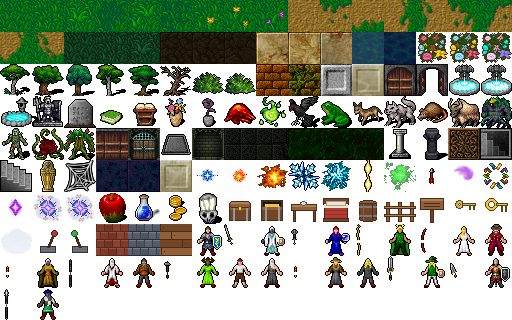
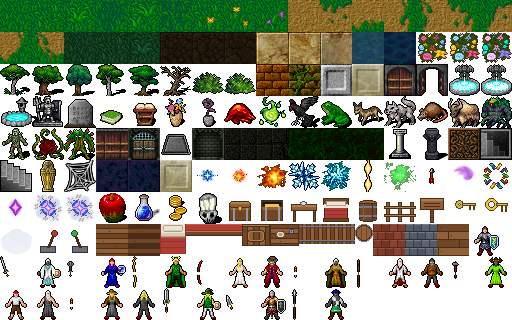
Lanterne : marche plus douce, meubles en volume ; page des crédits
- Marche : le balancement suit l'horloge (2,4 cycles par seconde)
  au lieu de repartir à chaque case (10 cycles par seconde).
- Meubles en volume : nouveau decor « meuble » du moteur (boîtes et
  cylindres texturés face par face) pour le lit, la table et le
  tonneau ; textures dessinées par outils/lanterne-tuiles.py.
- Page credits/index.html (créateurs, licences, liens vers les
  sources), lien en bas de l'accueil et sur l'écran titre de la
  Lanterne ; règle des crédits dans CLAUDE.md et le mémo.
- sw.js : ludotheque-v53.

Claude-Session: https://claude.ai/code/session_01RTxURJ1XwSQTktxKmeYS76

Changed region(s): [[0.1875, 0.6875, 1.0, 1.0], [0.0, 0.8125, 0.1562, 1.0], [0.0, 0.8125, 0.0312, 0.875]]

diff --git a/credits/index.html b/credits/index.html
@@ -1,0 +1,86 @@
+<!DOCTYPE html>
+<html lang="fr">
+<head>
+<meta charset="utf-8">
+<meta name="viewport" content="width=device-width, initial-scale=1">
+<meta name="theme-color" content="#0d0820">
+<title>Crédits — Ludothèque 16 bits</title>
+<link rel="preconnect" href="https://fonts.googleapis.com">
+<link rel="preconnect" href="https://fonts.gstatic.com" crossorigin>
+<link rel="stylesheet" href="https://fonts.googleapis.com/css2?family=Press+Start+2P&family=VT323&display=swap">
+<style>
+  /* Page des crédits : à compléter dès qu'on ajoute une ressource venue d'ailleurs (règle du 22/10, voir CLAUDE.md). */
+  :root { --fond: #0d0820; --carte: #1b1238; --bord: #ffffff; --or: #ffd23f; --texte: #ece6ff; --doux: #a99fd0; --lien: #5ce1ff; }
+  * { box-sizing: border-box; }
+  body { margin: 0; background: var(--fond); color: var(--texte); font: 21px/1.25 "VT323", monospace; }
+  main { max-width: 760px; margin: 0 auto; padding: 18px 16px 40px; }
+  h1 { font: 18px/1.5 "Press Start 2P", monospace; color: var(--or); margin: 10px 0 4px; }
+  h2 { font: 12px/1.6 "Press Start 2P", monospace; color: var(--or); margin: 26px 0 8px; }
+  p { margin: 6px 0; }
+  .intro { color: var(--doux); }
+  .res { background: var(--carte); border: 3px solid var(--bord); box-shadow: 4px 4px 0 #000; border-radius: 4px; padding: 8px 12px; margin: 10px 0; }
+  .res b { color: #fff; }
+  .res .lic { display: inline-block; font: 8px/1 "Press Start 2P", monospace; background: var(--or); color: #2a1600; padding: 4px 5px; margin-left: 6px; vertical-align: 2px; }
+  .res .jeux { color: var(--doux); }
+  a { color: var(--lien); word-break: break-word; }
+  .retour { display: inline-block; font: 10px/1 "Press Start 2P", monospace; color: #000; background: var(--or); border: 3px solid #000; padding: 10px 12px; text-decoration: none; box-shadow: 3px 3px 0 #000; }
+  ul { margin: 4px 0; padding-left: 20px; }
+</style>
+</head>
+<body>
+<main>
+  <a class="retour ludo-retour" href="../index.html">&#9664; LUDOTHEQUE</a>
+  <h1>CREDITS</h1>
+  <p class="intro">Les jeux de la Ludothèque sont faits pour la famille, sans but commercial. La plupart des graphismes et des sons sont dessinés ou synthétisés par le code. Voici tout ce qui vient d'ailleurs, avec un grand merci à leurs créateurs.</p>
+
+  <h2>GRAPHISMES</h2>
+  <div class="res"><b>Dungeon Crawl Stone Soup, tuiles 32 × 32</b><span class="lic">CC0</span>
+    <p>Par l'équipe et les contributeurs de Dungeon Crawl Stone Soup.</p>
+    <p><a href="https://opengameart.org/content/dungeon-crawl-32x32-tiles">opengameart.org/content/dungeon-crawl-32x32-tiles</a> · <a href="https://github.com/crawl/crawl">github.com/crawl/crawl</a></p>
+    <p class="jeux">La Dernière Lanterne : personnages, monstres, décors.</p></div>
+
+  <h2>SONS ET MUSIQUES</h2>
+  <div class="res"><b>Ninja Adventure</b><span class="lic">CC0</span>
+    <p>Par Pixel-boy et AAA.</p>
+    <p><a href="https://pixel-boy.itch.io/ninja-adventure-asset-pack">pixel-boy.itch.io/ninja-adventure-asset-pack</a></p>
+    <p class="jeux">La Dernière Lanterne : musiques (« Calm Village », « Fight »…) et bruitages.</p></div>
+  <div class="res"><b>RPG Essentials SFX — Free!</b><span class="lic">LIBRE, CREDIT</span>
+    <p>Par Leohpaz.</p>
+    <p><a href="https://leohpaz.itch.io/rpg-essentials-sfx-free">leohpaz.itch.io/rpg-essentials-sfx-free</a></p>
+    <p class="jeux">La Dernière Lanterne : bruitages des combats (touché, givre, flamme, soin, flèche, morsure, victoire).</p></div>
+  <div class="res"><b>Kenney</b><span class="lic">CC0</span>
+    <p>Par Kenney Vleugels.</p>
+    <p><a href="https://kenney.nl/assets">kenney.nl/assets</a></p>
+    <p class="jeux">La Dernière Lanterne : quelques bruitages.</p></div>
+
+  <h2>BIBLIOTHEQUES</h2>
+  <div class="res"><b>Three.js r128</b><span class="lic">MIT</span>
+    <p>Par Ricardo Cabello (mrdoob) et les contributeurs de three.js.</p>
+    <p><a href="https://threejs.org">threejs.org</a></p>
+    <p class="jeux">Les jeux en 3D et en HD-2D : Empilage, Odyssée, Yams, Le Magasinier, La Dernière Lanterne.</p></div>
+  <div class="res"><b>cannon.js 0.6.2</b><span class="lic">MIT</span>
+    <p>Par Stefan Hedman.</p>
+    <p><a href="https://github.com/schteppe/cannon.js">github.com/schteppe/cannon.js</a></p>
+    <p class="jeux">Yams : la physique des dés.</p></div>
+  <div class="res"><b>an-array-of-french-words</b><span class="lic">MIT</span>
+    <p>Par Titus Wormer, d'après la liste de mots de Letterpress.</p>
+    <p><a href="https://www.npmjs.com/package/an-array-of-french-words">npmjs.com/package/an-array-of-french-words</a></p>
+    <p class="jeux">Le Mot d'or : le dictionnaire des essais.</p></div>
+
+  <h2>POLICES</h2>
+  <div class="res"><b>Google Fonts</b><span class="lic">SIL OFL</span>
+    <ul>
+      <li>Press Start 2P (CodeMan38) et VT323 (Peter Hull) : l'accueil et la plupart des jeux.</li>
+      <li>Pixelify Sans (Stefie Justprince) : La Dernière Lanterne.</li>
+      <li>Fredoka, Rajdhani, Michroma, Share Tech Mono, Luckiest Guy, Cinzel, DotGothic16, Patrick Hand, Rubik, Schoolbell, Signika, Alegreya Sans SC : les autres jeux.</li>
+    </ul>
+    <p><a href="https://fonts.google.com">fonts.google.com</a></p></div>
+
+  <h2>SERVICES</h2>
+  <div class="res"><b>Supabase</b> pour les classements de la famille (<a href="https://supabase.com">supabase.com</a>), <b>GitHub Pages</b> pour l'hébergement du site (<a href="https://pages.github.com">pages.github.com</a>).</div>
+
+  <h2>MARQUES</h2>
+  <div class="res">Picross Dex est un jeu de fan, personnel et non commercial : Pokémon est une marque de Nintendo, Creatures Inc. et GAME FREAK inc. Les autres jeux s'inspirent de classiques (Tetris, Snake, Asteroids, Sokoban, Rush Hour, Wordle, Orlog…) sans en reprendre les images ni les sons.</div>
+</main>
+</body>
+</html>

diff --git a/sw.js b/sw.js
@@ -9,7 +9,7 @@
    - Le cache HTTP du navigateur est contourné (préchargement en « reload », réseau en « no-cache ») :
      une page neuve ne doit jamais tourner avec un script partagé resté ancien.
    - Changer VERSION quand on ajoute ou renomme des fichiers, pour refaire le préchargement. */
-const VERSION = "ludotheque-v52";
+const VERSION = "ludotheque-v53";
 const NET_WAIT = 2500;
 let slowUntil = 0;   // réseau jugé lent : pendant 10 s, les copies en cache sont servies sans attendre
 const FONTS = "ludotheque-fonts";
@@ -24,7 +24,7 @@ const FILES = [
   "./odyssee/index.html", "./odyssee/regles.js", "./odyssee/sons.js",
   "./yams/index.html", "./lib/cannon.min.js",
   "./mot-d-or/index.html", "./mot-d-or/mots.js", "./mot-d-or/jeu.js", "./capitaine-du-port/index.html", "./capitaine-du-port/style.css", "./capitaine-du-port/regles.js", "./capitaine-du-port/niveaux.js", "./capitaine-du-port/decor.js", "./capitaine-du-port/jeu.js", "./capitaine-du-port/sons.js", "./magasinier/index.html", "./magasinier/style.css", "./magasinier/regles.js", "./magasinier/niveaux.js", "./magasinier/sons.js", "./magasinier/docker.js", "./magasinier/scene.js", "./magasinier/jeu.js",
-  "./lanterne/index.html", "./lanterne/style.css", "./lanterne/jeu.js", "./lanterne/tuiles.png", "./lanterne/donnees/tuiles.js", "./lanterne/donnees/base.js", "./lanterne/donnees/cartes.js", "./lanterne/donnees/evenements.js", "./lanterne/sons/bip.ogg", "./lanterne/sons/coffre.ogg", "./lanterne/sons/foret.ogg", "./lanterne/sons/lanterne.ogg", "./lanterne/sons/ok.ogg", "./lanterne/sons/porte.ogg", "./lanterne/sons/rencontre.ogg", "./lanterne/sons/soin.ogg", "./lanterne/sons/village.ogg", "./moteur-rpg/regles.js", "./moteur-rpg/etat.js", "./moteur-rpg/monde.js", "./moteur-rpg/evenements.js", "./moteur-rpg/poupees.js", "./moteur-rpg/rendu.js", "./moteur-rpg/interface.js", "./moteur-rpg/menu.js", "./moteur-rpg/entrees.js", "./moteur-rpg/sons.js", "./moteur-rpg/partie.js", "./moteur-rpg/combat.js", "./moteur-rpg/combat-ui.js", "./lanterne/donnees/combat.js", "./lanterne/sons/combat.ogg", "./lanterne/sons/coup.ogg", "./lanterne/sons/feu.ogg", "./lanterne/sons/fleche.ogg", "./lanterne/sons/foudre.ogg", "./lanterne/sons/fuite.ogg", "./lanterne/sons/givre.ogg", "./lanterne/sons/morsure.ogg", "./lanterne/sons/niveau.ogg", "./lanterne/sons/touche.ogg", "./lanterne/sons/vaincu.ogg", "./lanterne/sons/victoire.ogg", "./polices/lanterne.css", "./polices/pixelify-sans.woff2",
+  "./credits/index.html", "./lanterne/index.html", "./lanterne/style.css", "./lanterne/jeu.js", "./lanterne/tuiles.png", "./lanterne/donnees/tuiles.js", "./lanterne/donnees/base.js", "./lanterne/donnees/cartes.js", "./lanterne/donnees/evenements.js", "./lanterne/sons/bip.ogg", "./lanterne/sons/coffre.ogg", "./lanterne/sons/foret.ogg", "./lanterne/sons/lanterne.ogg", "./lanterne/sons/ok.ogg", "./lanterne/sons/porte.ogg", "./lanterne/sons/rencontre.ogg", "./lanterne/sons/soin.ogg", "./lanterne/sons/village.ogg", "./moteur-rpg/regles.js", "./moteur-rpg/etat.js", "./moteur-rpg/monde.js", "./moteur-rpg/evenements.js", "./moteur-rpg/poupees.js", "./moteur-rpg/rendu.js", "./moteur-rpg/interface.js", "./moteur-rpg/menu.js", "./moteur-rpg/entrees.js", "./moteur-rpg/sons.js", "./moteur-rpg/partie.js", "./moteur-rpg/combat.js", "./moteur-rpg/combat-ui.js", "./lanterne/donnees/combat.js", "./lanterne/sons/combat.ogg", "./lanterne/sons/coup.ogg", "./lanterne/sons/feu.ogg", "./lanterne/sons/fleche.ogg", "./lanterne/sons/foudre.ogg", "./lanterne/sons/fuite.ogg", "./lanterne/sons/givre.ogg", "./lanterne/sons/morsure.ogg", "./lanterne/sons/niveau.ogg", "./lanterne/sons/touche.ogg", "./lanterne/sons/vaincu.ogg", "./lanterne/sons/victoire.ogg", "./polices/lanterne.css", "./polices/pixelify-sans.woff2",
   "./accueil.css", "./accueil.js", "./alunissage/jeu.js", "./amiral/jeu.js", "./calculator/jeu.js", "./calculator/style.css", "./club/jeu.js", "./escadrille/jeu.js", "./ile/jeu.js", "./ile/style.css", "./injagility/jeu.js", "./injagility/parcours.css", "./injagility/parcours.js", "./injagility/style.css", "./lignee/jeu.js", "./lignee/style.css", "./lune-rover/jeu.js", "./nebula/jeu.js", "./odyssee/jeu.js", "./odyssee/style.css", "./orbite/jeu.js", "./picross/dessins.js", "./picross/jeu.js", "./picross/style.css", "./pont-stellaire/jeu.js", "./queens/jeu.js", "./queens/style.css", "./solitaire/jeu.js", "./solitaire/style.css", "./sudoku/jeu.js", "./touche-coule/jeu.js", "./touche-coule/style.css", "./yams/jeu.js", "./yams/style.css"
 ];
 

diff --git a/lanterne/donnees/tuiles.js b/lanterne/donnees/tuiles.js
@@ -117,36 +117,45 @@ LANTERNE.tuiles = {
   "nappe": [0, 224, 32, 32],
   "levier": [32, 224, 32, 32],
   "levier_baisse": [64, 224, 32, 32],
-  "toit": [96, 224, 32, 32],
-  "toit_ardoise": [128, 224, 32, 32],
-  "parquet": [160, 224, 32, 32],
-  "heros_c": [192, 224, 32, 32],
-  "heros_a": [224, 224, 32, 32],
-  "eloi_c": [256, 224, 32, 32],
-  "eloi_a": [288, 224, 32, 32],
-  "verene_c": [320, 224, 32, 32],
-  "verene_a": [352, 224, 32, 32],
-  "maud_c": [384, 224, 32, 32],
-  "maud_a": [416, 224, 32, 32],
-  "isee_c": [448, 224, 32, 32],
-  "gaspard_c": [480, 224, 32, 32],
-  "gaspard_a": [0, 256, 32, 32],
-  "ysolde_c": [32, 256, 32, 32],
-  "ysolde_a": [64, 256, 32, 32],
-  "vaast_c": [96, 256, 32, 32],
-  "forgeron_c": [128, 256, 32, 32],
-  "forgeron_a": [160, 256, 32, 32],
-  "aubergiste_c": [192, 256, 32, 32],
-  "enfant_c": [224, 256, 32, 32],
-  "ancien_c": [256, 256, 32, 32],
-  "ancien_a": [288, 256, 32, 32],
-  "paysanne_c": [320, 256, 32, 32],
-  "nuage_c": [352, 256, 32, 32],
-  "nuage_a": [384, 256, 32, 32],
-  "garcon_vert_c": [416, 256, 32, 32],
-  "garcon_vert_a": [448, 256, 32, 32],
-  "garde_c": [480, 256, 32, 32],
-  "garde_a": [0, 288, 32, 32],
-  "pecheur_c": [32, 288, 32, 32]
+  "bois": [96, 224, 32, 32],
+  "bois_sombre": [128, 224, 32, 32],
+  "lit_dessus": [160, 224, 26, 30],
+  "lit_cote": [186, 224, 30, 12],
+  "lit_pied": [216, 224, 26, 12],
+  "lit_tete": [242, 224, 28, 22],
+  "table_dessus": [270, 224, 29, 22],
+  "tonneau_cote": [299, 224, 56, 20],
+  "tonneau_dessus": [355, 224, 18, 18],
+  "toit": [373, 224, 32, 32],
+  "toit_ardoise": [405, 224, 32, 32],
+  "parquet": [437, 224, 32, 32],
+  "heros_c": [469, 224, 32, 32],
+  "heros_a": [0, 256, 32, 32],
+  "eloi_c": [32, 256, 32, 32],
+  "eloi_a": [64, 256, 32, 32],
+  "verene_c": [96, 256, 32, 32],
+  "verene_a": [128, 256, 32, 32],
+  "maud_c": [160, 256, 32, 32],
+  "maud_a": [192, 256, 32, 32],
+  "isee_c": [224, 256, 32, 32],
+  "gaspard_c": [256, 256, 32, 32],
+  "gaspard_a": [288, 256, 32, 32],
+  "ysolde_c": [320, 256, 32, 32],
+  "ysolde_a": [352, 256, 32, 32],
+  "vaast_c": [384, 256, 32, 32],
+  "forgeron_c": [416, 256, 32, 32],
+  "forgeron_a": [448, 256, 32, 32],
+  "aubergiste_c": [480, 256, 32, 32],
+  "enfant_c": [0, 288, 32, 32],
+  "ancien_c": [32, 288, 32, 32],
+  "ancien_a": [64, 288, 32, 32],
+  "paysanne_c": [96, 288, 32, 32],
+  "nuage_c": [128, 288, 32, 32],
+  "nuage_a": [160, 288, 32, 32],
+  "garcon_vert_c": [192, 288, 32, 32],
+  "garcon_vert_a": [224, 288, 32, 32],
+  "garde_c": [256, 288, 32, 32],
+  "garde_a": [288, 288, 32, 32],
+  "pecheur_c": [320, 288, 32, 32]
 };
 LANTERNE.prises = {"heros": [8, 19], "eloi": [7, 19], "verene": [8, 21], "maud": [8, 24], "gaspard": [8, 20], "ysolde": [7, 20], "forgeron": [8, 20], "ancien": [8, 20], "nuage": [7, 20], "garcon_vert": [8, 20], "garde": [7, 20]};

diff --git a/moteur-rpg/rendu.js b/moteur-rpg/rendu.js
@@ -6,7 +6,8 @@
 
    style (données du jeu) :
      sols:    { nom: { tuiles: […], semis: { tuiles: […], sur: 7 } } ou { bordure: { centre, n, s, e, w, ne, nw, se, sw } } }
-     decors:  { nom: { type: 'panneau', tuiles: […], taille } | { type: 'bloc', tuile, hauteur } | { type: 'plat', tuiles: […] } }
+     decors:  { nom: { type: 'panneau', tuiles: […], taille } | { type: 'bloc', tuile, hauteur }
+              | { type: 'meuble', pieces: [{ boite: [l, h, p] | cylindre: [rayon, h], pos: [x, y, z], dessus, face, cote }] } | { type: 'plat', tuiles: […] } }
      objets:  { type: { tuile, tuileOuverte, taille, lumiere: { couleur, intensite, portee, hauteur } } }
      exterieur: { sol: [tuiles], decor: 'arbre' }   sol et arbres autour des cartes d'extérieur */
 (function (M) {
@@ -209,7 +210,8 @@ void main(){
           a.position.set(x + .5 + (d.taille > 1.2 ? (hasard(x, y) % 5 - 2) * .05 : 0), 0, y + .5); scene.add(a);
           if (d.taille > 1.2) masquable([a.material], x - .1, x + 1.1, y + .5, y + .5, d.taille);
           if (d.alterne) alternent.push({ a, tuiles: d.alterne.map(tex) });
-        } else if (d.type === 'bloc') {
+        } else if (d.type === 'meuble') meuble(d, x, y);
+        else if (d.type === 'bloc') {
           const t = tex(d.tuile), hb = d.hauteur || 1.2;
           const b = new THREE.Mesh(new THREE.BoxGeometry(1, hb, 1), new THREE.MeshLambertMaterial({ map: t }));
           b.position.set(x + .5, hb / 2, y + .5); b.castShadow = b.receiveShadow = true; scene.add(b);
@@ -223,6 +225,18 @@ void main(){
       for (const o of def.objets || []) objet(o);
       if (brumeForce) brume(brumeForce);
       if (interieur) { const p = new THREE.PointLight(0xffc880, .9, Math.max(c.l, c.h) * 1.2, 1.2); p.position.set(c.l / 2, 2.4, c.h / 2 + 1); scene.add(p); }
+    }
+
+    // un meuble en volume (lit, table, tonneau) : des boîtes et des cylindres texturés, face par face
+    function meuble(d, x, y) {
+      const mat = n => new THREE.MeshLambertMaterial({ map: tex(n) });
+      for (const p of d.pieces) {
+        const [px, py, pz] = p.pos || [0, 0, 0], dessus = mat(p.dessus || p.face), face = mat(p.face), cote = mat(p.cote || p.face);
+        let m, h;
+        if (p.cylindre) { h = p.cylindre[1]; m = new THREE.Mesh(new THREE.CylinderGeometry(p.cylindre[0], p.cylindre[0], h, 14), [face, dessus, dessus]); }
+        else { h = p.boite[1]; m = new THREE.Mesh(new THREE.BoxGeometry(p.boite[0], h, p.boite[2]), [cote, cote, dessus, dessus, face, face]); }
+        m.position.set(x + .5 + px, py + h / 2, y + .5 + pz); m.castShadow = m.receiveShadow = true; scene.add(m);
+      }
     }
 
     // ce qui peut cacher l'équipe : de x0 à x1, de l'arrière (zb) à l'avant (zf), hauteur h

diff --git a/moteur-rpg/partie.js b/moteur-rpg/partie.js
@@ -10,6 +10,7 @@
          reglages, enregistrerReglages(), defaite() } */
 (function (M) {
   const PAS = .2;   // secondes pour avancer d'une case
+  const CADENCE = 2.4;   // cycles de marche par seconde (deux petits rebonds par cycle)
   const SENS = { gauche: 1, droite: -1 };
 
   function Partie(o) {
@@ -85,15 +86,16 @@
     const lisse = (s, k) => [s.de[0] + (s.x - s.de[0]) * k, s.de[1] + (s.y - s.de[1]) * k];
     function dessiner(t) {
       const k = mouvement ? Math.min(1, mouvement.t) : 1;
-      for (const s of [chef, ...suiveurs]) {
+      // le pas suit l'horloge (et pas l'avancée dans la case) : un balancement doux, même en avançant vite
+      [chef, ...suiveurs].forEach((s, i) => {
         const [x, y] = lisse(s, k), bouge = mouvement && (s.x !== s.de[0] || s.y !== s.de[1]);
-        rendu.placer(s.id, x, y, bouge ? 'marche' : 'repos', bouge ? (k * 2) % 1 : 0, s.sens);
-      }
+        rendu.placer(s.id, x, y, bouge ? 'marche' : 'repos', bouge ? (t * CADENCE + i * .3) % 1 : 0, s.sens);
+      });
       for (const n of pnjs.concat(monstres)) {
         n.t = Math.min(1, n.t + (t - (n.dernier || t)) / (PAS * 1.6)); n.dernier = t;
         const [x, y] = lisse(n, n.t), bouge = n.t < 1;
         const anim = !bouge && n.def && n.def.anim;   // un habitant peut avoir son geste à lui (par ex. 'attaque')
-        rendu.placer(n.aid, x, y, bouge ? 'marche' : anim || 'repos', bouge ? (n.t * 2) % 1 : anim ? (t * .7 + (n.def.x || 0)) % 1 : 0, n.sens);
+        rendu.placer(n.aid, x, y, bouge ? 'marche' : anim || 'repos', bouge ? (t * CADENCE * .8 + (n.def && n.def.x || 0) * .37) % 1 : anim ? (t * .7 + (n.def.x || 0)) % 1 : 0, n.sens);
       }
       const [cx, cy] = lisse(chef, k);
       rendu.viser(cx, cy);

diff --git a/lanterne/donnees/base.js b/lanterne/donnees/base.js
@@ -108,10 +108,12 @@ LANTERNE.style = {
     barriere: { type: 'panneau', tuiles: ['barriere'], taille: 1 },
     statue: { type: 'panneau', tuiles: ['statue_aubrin'], taille: 1.6 },
     fontaine: { type: 'panneau', tuiles: ['fontaine'], taille: 1.15, alterne: ['fontaine', 'fontaine2'] },
-    tonneau: { type: 'panneau', tuiles: ['tonneau'], taille: .9 },
+    tonneau: { type: 'meuble', pieces: [{ cylindre: [.28, .62], face: 'tonneau_cote', dessus: 'tonneau_dessus' }] },
     pot: { type: 'panneau', tuiles: ['pot_fleurs', 'pot_fleurs2'], taille: .8 },
-    lit: { type: 'panneau', tuiles: ['lit'], taille: 1 },
-    table: { type: 'panneau', tuiles: ['table'], taille: 1 },
+    lit: { type: 'meuble', pieces: [{ boite: [.8, .36, .9], pos: [0, 0, .05], dessus: 'lit_dessus', face: 'lit_pied', cote: 'lit_cote' },
+      { boite: [.88, .7, .08], pos: [0, 0, -.43], face: 'lit_tete', cote: 'bois', dessus: 'bois' }] },
+    table: { type: 'meuble', pieces: [{ boite: [.9, .07, .68], pos: [0, .46, 0], dessus: 'table_dessus', face: 'bois' },
+      { boite: [.07, .46, .07], pos: [-.38, 0, -.27], face: 'bois_sombre' }, { boite: [.07, .46, .07], pos: [-.38, 0, .27], face: 'bois_sombre' }, { boite: [.07, .46, .07], pos: [.38, 0, -.27], face: 'bois_sombre' }, { boite: [.07, .46, .07], pos: [.38, 0, .27], face: 'bois_sombre' }] },
     livres: { type: 'panneau', tuiles: ['livres'], taille: .9 },
     pupitre: { type: 'panneau', tuiles: ['pupitre'], taille: .9 },
     mur_haut: { type: 'bloc', tuile: 'mur_brique', hauteur: 1.8 },

diff --git a/outils/lanterne-tests.js b/outils/lanterne-tests.js
@@ -178,7 +178,7 @@ const fixe = (...v) => { let i = 0; return () => v[i++ % v.length]; };   // tira
       if (k.decor && !J.style.decors[k.decor]) bad(`${id} : décor inconnu ${k.decor}`);
     }
   }
-  for (const [nom, d] of Object.entries(J.style.decors)) for (const t of [].concat(d.tuiles || [], d.tuile || [], d.alterne || [])) if (!tuile(t)) bad(`décor ${nom} : tuile inconnue ${t}`);
+  for (const [nom, d] of Object.entries(J.style.decors)) for (const t of [].concat(d.tuiles || [], d.tuile || [], d.alterne || [], ...(d.pieces || []).map(p => [p.dessus, p.face, p.cote].filter(Boolean)))) if (!tuile(t)) bad(`décor ${nom} : tuile inconnue ${t}`);
   for (const [nom, s] of Object.entries(J.style.sols)) if (s) for (const t of [].concat(s.tuiles || [], s.semis ? s.semis.tuiles : [], s.bordure ? Object.values(s.bordure) : [])) if (!tuile(t)) bad(`sol ${nom} : tuile inconnue ${t}`);
   for (const id in J.heros) {
     if (!perso(J.heros[id].perso)) bad(`héros ${id} : personnage inconnu`);

diff --git a/moteur-rpg/poupees.js b/moteur-rpg/poupees.js
@@ -32,7 +32,7 @@
     let sx = 1, sy = 1, rot = 0, dx = 0, dy = 0, armeA = 0, flash = 0, aura = 0;
     const respire = Math.sin(t * 3 + p.dec);
     if (etat === 'repos') { sy = 1 + .03 * respire; sx = 1 - .015 * respire; armeA = .04 * respire; }
-    else if (etat === 'marche') { const s = Math.sin(q * Math.PI * 2); rot = .06 * s; dy = -Math.abs(s) * 2.5; sy = 1 - .05 * Math.abs(Math.cos(q * Math.PI * 2)); armeA = .1 * s; }
+    else if (etat === 'marche') { const s = Math.sin(q * Math.PI * 2); rot = .05 * s; dy = -Math.abs(s) * 2; sy = 1 - .05 * Math.abs(Math.cos(q * Math.PI * 2)); armeA = .1 * s; }
     else if (etat === 'attaque') {
       if (q < .4) { const k = ease(q / .4); armeA = .35 * k; rot = .04 * k; dx = 1.5 * k; dy = -k; }
       else if (q < .6) { const k = ease((q - .4) / .2); armeA = .35 - .9 * k; rot = .04 - .1 * k; dx = 1.5 - 5 * k; dy = -1 + k; }

diff --git a/lanterne/index.html b/lanterne/index.html
@@ -39,7 +39,7 @@
       <div class="rangee"><button id="nomRetour" class="bouton">Retour</button><button id="nomOk" class="bouton fort">Commencer</button></div>
     </div>
     <a class="bouton ludo-retour" href="../index.html">◀ Ludothèque</a>
-    <p class="credits">Graphismes : Dungeon Crawl Stone Soup (CC0) · Sons : Ninja Adventure (CC0), Leohpaz « RPG Essentials », Kenney (CC0) · Police : Pixelify Sans</p>
+    <p class="credits">Graphismes : Dungeon Crawl Stone Soup (CC0) · Sons : Ninja Adventure (CC0), Leohpaz « RPG Essentials », Kenney (CC0) · Police : Pixelify Sans · <a class="ludo-retour" href="../credits/index.html">tous les crédits</a></p>
   </div>
 </div>
 <script src="../lib/three.min.js"></script>

diff --git a/accueil.css b/accueil.css
@@ -266,6 +266,8 @@ body.lock .rack .c3 .body, body.lock .rack .c3 .front::after, body.lock .rack .c
 .surprise .say small{display:block; font-size:7px; color:var(--text-dim)}
 
 /* ---------- le joueur des classements, transfert de sauvegardes ---------- */
+.credits-lien{text-align:center; margin:14px 0 4px; color:#a99fd0; font-size:18px}
+.credits-lien a{font-family:var(--f-display); font-size:9px; color:#ffd23f}
 .foot{display:grid; grid-template-columns:1fr 1fr; gap:14px; align-items:stretch}
 .foot > *{min-width:0}
 .foot .saves, .foot .player:has(.who, .join), .foot:has(.player .who, .player .join) .saves-open{grid-column:1 / -1}

diff --git a/lanterne/style.css b/lanterne/style.css
@@ -118,3 +118,4 @@ h1 { position: relative; margin: 0; font-size: 42px; line-height: 1.05; font-wei
 .bouton { font: inherit; font-size: 16px; padding: 8px 16px; background: #2a2440; color: #f4ecd8; border: 2px solid #6b5432; border-radius: 6px; text-decoration: none; cursor: pointer; }
 .bouton.fort { background: #7a2f1e; border-color: #c46a48; }
 .credits { margin-top: auto; font-size: 11px; color: #8a8070; text-align: center; max-width: 380px; }
+.credits a { color: #c8b48a; }

diff --git a/index.html b/index.html
@@ -57,6 +57,7 @@
     <div class="res" id="savesRes" aria-live="polite"></div>
   </section>
   </div>
+  <p class="credits-lien"><a href="credits/index.html">CREDITS</a> · merci aux créateurs des images, sons et polices</p>
 
   <div class="status" id="status"><kbd>FLECHES</kbd> CHOISIR · <kbd>ENTREE</kbd> OUVRIR · <kbd>ECHAP</kbd> FERMER</div>
 </div>
